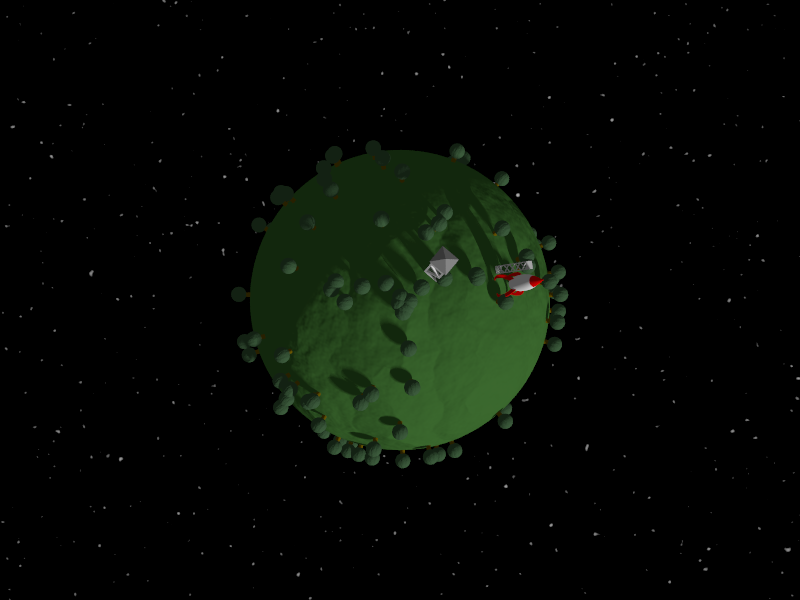
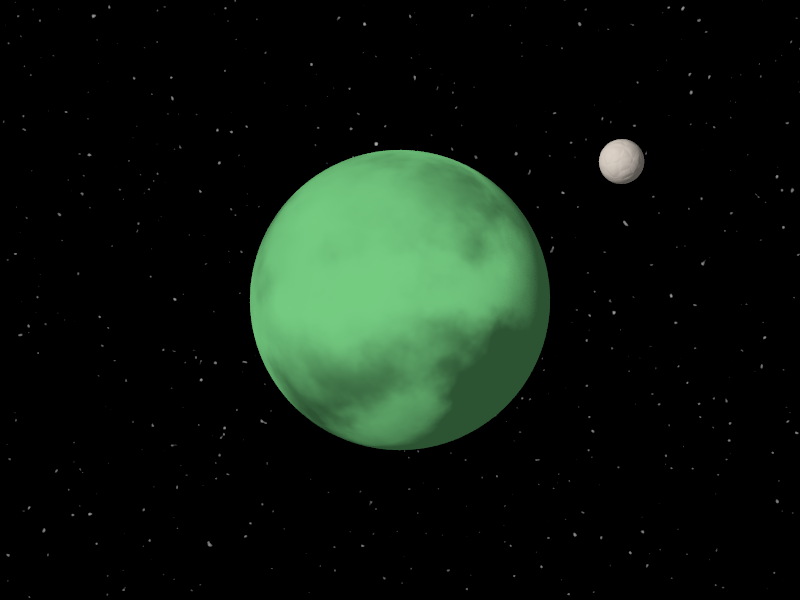
various changes

Changed region(s): [[0.2812, 0.24, 0.7188, 0.78], [0.75, 0.21, 0.8125, 0.33], [0.625, 0.66, 0.6562, 0.72]]

diff --git a/dev.py b/dev.py
@@ -33,7 +33,7 @@ def render_planet():
 
     sun = drawSun()
 
-    microplanetChance = random.randint(1,1)
+    microplanetChance = random.randint(1,50)
     cloudChance = random.randint(1,10)
     ringChance = random.randint(1,10)
     moonChance = random.randint(1,10)
@@ -42,11 +42,12 @@ def render_planet():
 
     objects = []
 
-    if microplanetChance > 0:
+    if microplanetChance > 49:
         print("generating microplanet")
         rTreeType = random.randint(0,1)
         print("tree type: " + str(rTreeType))
-        objects = objects + [makeTrees(rTreeType) for x in range(150)]
+        objects = objects + [makeTrees(0) for x in range(random.randint(50,150))]
+        objects = objects + [makeTrees(1) for x in range(random.randint(50,150))]
         if starFissureChance == 999:
             planet = Difference(
                 drawPlanet([0.062, 0.2, 0.039], 'marble', .5, .5, [1,1,1], [0,0,0], [0,0,0]),
@@ -55,24 +56,31 @@ def render_planet():
         else:
             planet = drawPlanet([0.062, 0.2, 0.039], 'marble', .5, .5, [1,1,1], [0,0,0], [0,0,0])
 
-        fire_tower = drawFireTower()
-        rocket = drawRocket()
+        if (random.randint(1,10)) > 6:
+            fire_tower = drawFireTower()
+            objects = objects + [fire_tower]
+        if (random.randint(1,10)) > 6:
+            if(random.randint(1,2)) > 1:
+                rocket = drawRocket()
+            else:
+                rocket = drawRocketOrbit()
+            objects = objects + [rocket]
 
 
-        objects = objects + [planet] + [fire_tower] + [rocket]
+        objects = objects + [planet]
 
     else:
         objects = objects + [drawPlanet(planet_color, planet_normal, normal_mag, rMag(), [1,1,1], [0,0,0], [0,0,0])]
         
         #Generate chance of clouds
 
-        if cloudChance > 6:
+        if cloudChance > 100:
             print("clouds")
             objects = objects + [drawClouds()]
-        if ringChance > 6 and clouds == []:
+        elif ringChance > 6:
             print("rings")
             objects = objects + drawRings(planet_color)
-        if moonChance > 6 and rings == []:
+        elif moonChance > 6:
             print("moons")
             objects = objects + drawMoon()
         
@@ -83,7 +91,7 @@ def render_planet():
 
     scene = Scene( Camera('angle', 30,'location',  [0.0 , 0,-10],
                         'look_at', [0 , 0 , 0.0]),
-                objects = objects + [sky, sun, planet],
+                objects = objects + [sky, sun],
                 included = ["colors.inc", "textures.inc"],
                 defaults = [Finish( 'ambient', 0.1, 'diffuse', 0.9)] )
 

diff --git a/planets.py b/planets.py
@@ -33,7 +33,7 @@ def render_planet():
 
     sun = drawSun()
 
-    microplanetChance = random.randint(1,1)
+    microplanetChance = random.randint(1,50)
     cloudChance = random.randint(1,10)
     ringChance = random.randint(1,10)
     moonChance = random.randint(1,10)
@@ -42,11 +42,12 @@ def render_planet():
 
     objects = []
 
-    if microplanetChance > 0:
+    if microplanetChance > 49:
         print("generating microplanet")
         rTreeType = random.randint(0,1)
         print("tree type: " + str(rTreeType))
-        objects = objects + [makeTrees(rTreeType) for x in range(150)]
+        objects = objects + [makeTrees(0) for x in range(random.randint(50,150))]
+        objects = objects + [makeTrees(1) for x in range(random.randint(50,150))]
         if starFissureChance == 999:
             planet = Difference(
                 drawPlanet([0.062, 0.2, 0.039], 'marble', .5, .5, [1,1,1], [0,0,0], [0,0,0]),
@@ -55,24 +56,31 @@ def render_planet():
         else:
             planet = drawPlanet([0.062, 0.2, 0.039], 'marble', .5, .5, [1,1,1], [0,0,0], [0,0,0])
 
-        fire_tower = drawFireTower()
-        rocket = drawRocket()
+        if (random.randint(1,10)) > 6:
+            fire_tower = drawFireTower()
+            objects = objects + [fire_tower]
+        if (random.randint(1,10)) > 6:
+            if(random.randint(1,2)) > 1:
+                rocket = drawRocket()
+            else:
+                rocket = drawRocketOrbit()
+            objects = objects + [rocket]
 
 
-        objects = objects + [planet] + [fire_tower] + [rocket]
+        objects = objects + [planet]
 
     else:
         objects = objects + [drawPlanet(planet_color, planet_normal, normal_mag, rMag(), [1,1,1], [0,0,0], [0,0,0])]
         
         #Generate chance of clouds
 
-        if cloudChance > 6:
+        if cloudChance > 100:
             print("clouds")
             objects = objects + [drawClouds()]
-        if ringChance > 6 and clouds == []:
+        elif ringChance > 6:
             print("rings")
             objects = objects + drawRings(planet_color)
-        if moonChance > 6 and rings == []:
+        elif moonChance > 6:
             print("moons")
             objects = objects + drawMoon()
         
@@ -83,7 +91,7 @@ def render_planet():
 
     scene = Scene( Camera('angle', 30,'location',  [0.0 , 0,-10],
                         'look_at', [0 , 0 , 0.0]),
-                objects = objects + [sky, sun, planet],
+                objects = objects + [sky, sun],
                 included = ["colors.inc", "textures.inc"],
                 defaults = [Finish( 'ambient', 0.1, 'diffuse', 0.9)] )
 

diff --git a/planet_objects.py b/planet_objects.py
@@ -151,7 +151,7 @@ def drawMoon():
 
     moon_rot_x = random.randint(-15,15)
     moon_rot_y = random.randint(-45,45)
-    moon_rot_z = random.randint(-45,45)
+    moon_rot_z = random.randint(-180,180)
 
     moon = [Sphere ( [0,0,0], 1,
         Texture ( 
@@ -477,3 +477,76 @@ def drawRocket():
         'rotate', [random.randint(-120,-10),0,random.randint(-120,-10)]        
     )
     return(model)
+
+def drawRocketOrbit():
+
+    orbit_rot_x = random.randint(-15,15)
+    orbit_rot_y = random.randint(-45,45)
+    orbit_rot_z = random.randint(-45,45)
+
+    orbit_color = [.25,.55,.25]
+
+    orbits = Difference(
+        Cylinder([0,0,0],[0,0,.01], 1.5,
+                Texture(Pigment ('color', orbit_color)
+            ),
+                Finish('ambient',.8),
+                'translate', [0,0,0],
+                'rotate',[0, 0, 0] 
+            ),
+        Cylinder([0,0,-1],[0,0,1], 1.475,
+                'translate', [0,0,0],
+                'rotate',[0, 0, 0] 
+            ),
+        'scale',[1.00,1.0,1.0],
+        'rotate',[90,0,0]
+    )
+    
+
+
+    rocket = Union(
+        Difference(
+            Union(
+                Sphere([0,0,0],1,
+                    Pigment('color','White'),
+                    'scale',[1,2.5,1],
+                    'translate',[0,2,0]
+                ),
+                Cone([0,0,0],.75, [0,2,0],0,
+                    Pigment('color','Red'),
+                    'translate',[0,3.65,0]
+                )
+            ),
+            Box([-1,-1,-1],[1,.15,1])
+        ),
+        Difference(
+            Difference(
+                Union (
+                    Cylinder([0,0,0],[0,0,.1],2,
+                        'translate',[0,-1,0]
+                    ),
+                    Cylinder([0,0,0],[.1,0,0],2,
+                        'translate',[0,-1,0]
+                    ),
+                ),
+                Sphere([0,0,0],1.5,
+                    'translate',[0,-1.5,0]
+                ),
+                Pigment('color', 'Red'),
+                'translate',[0,.5,0]
+            ),
+            Box([-4,-4,-4],[4,-2,4])
+        ),
+        'scale',.075,
+        'rotate',[0,45,90],
+        'translate',[0,0,-1.5],
+        'translate',[.25,0,0]
+    )
+
+    rocket = Union(
+        rocket,
+        orbits,
+        'rotate',[orbit_rot_x,orbit_rot_y,orbit_rot_z]
+    )
+
+    return(rocket)
